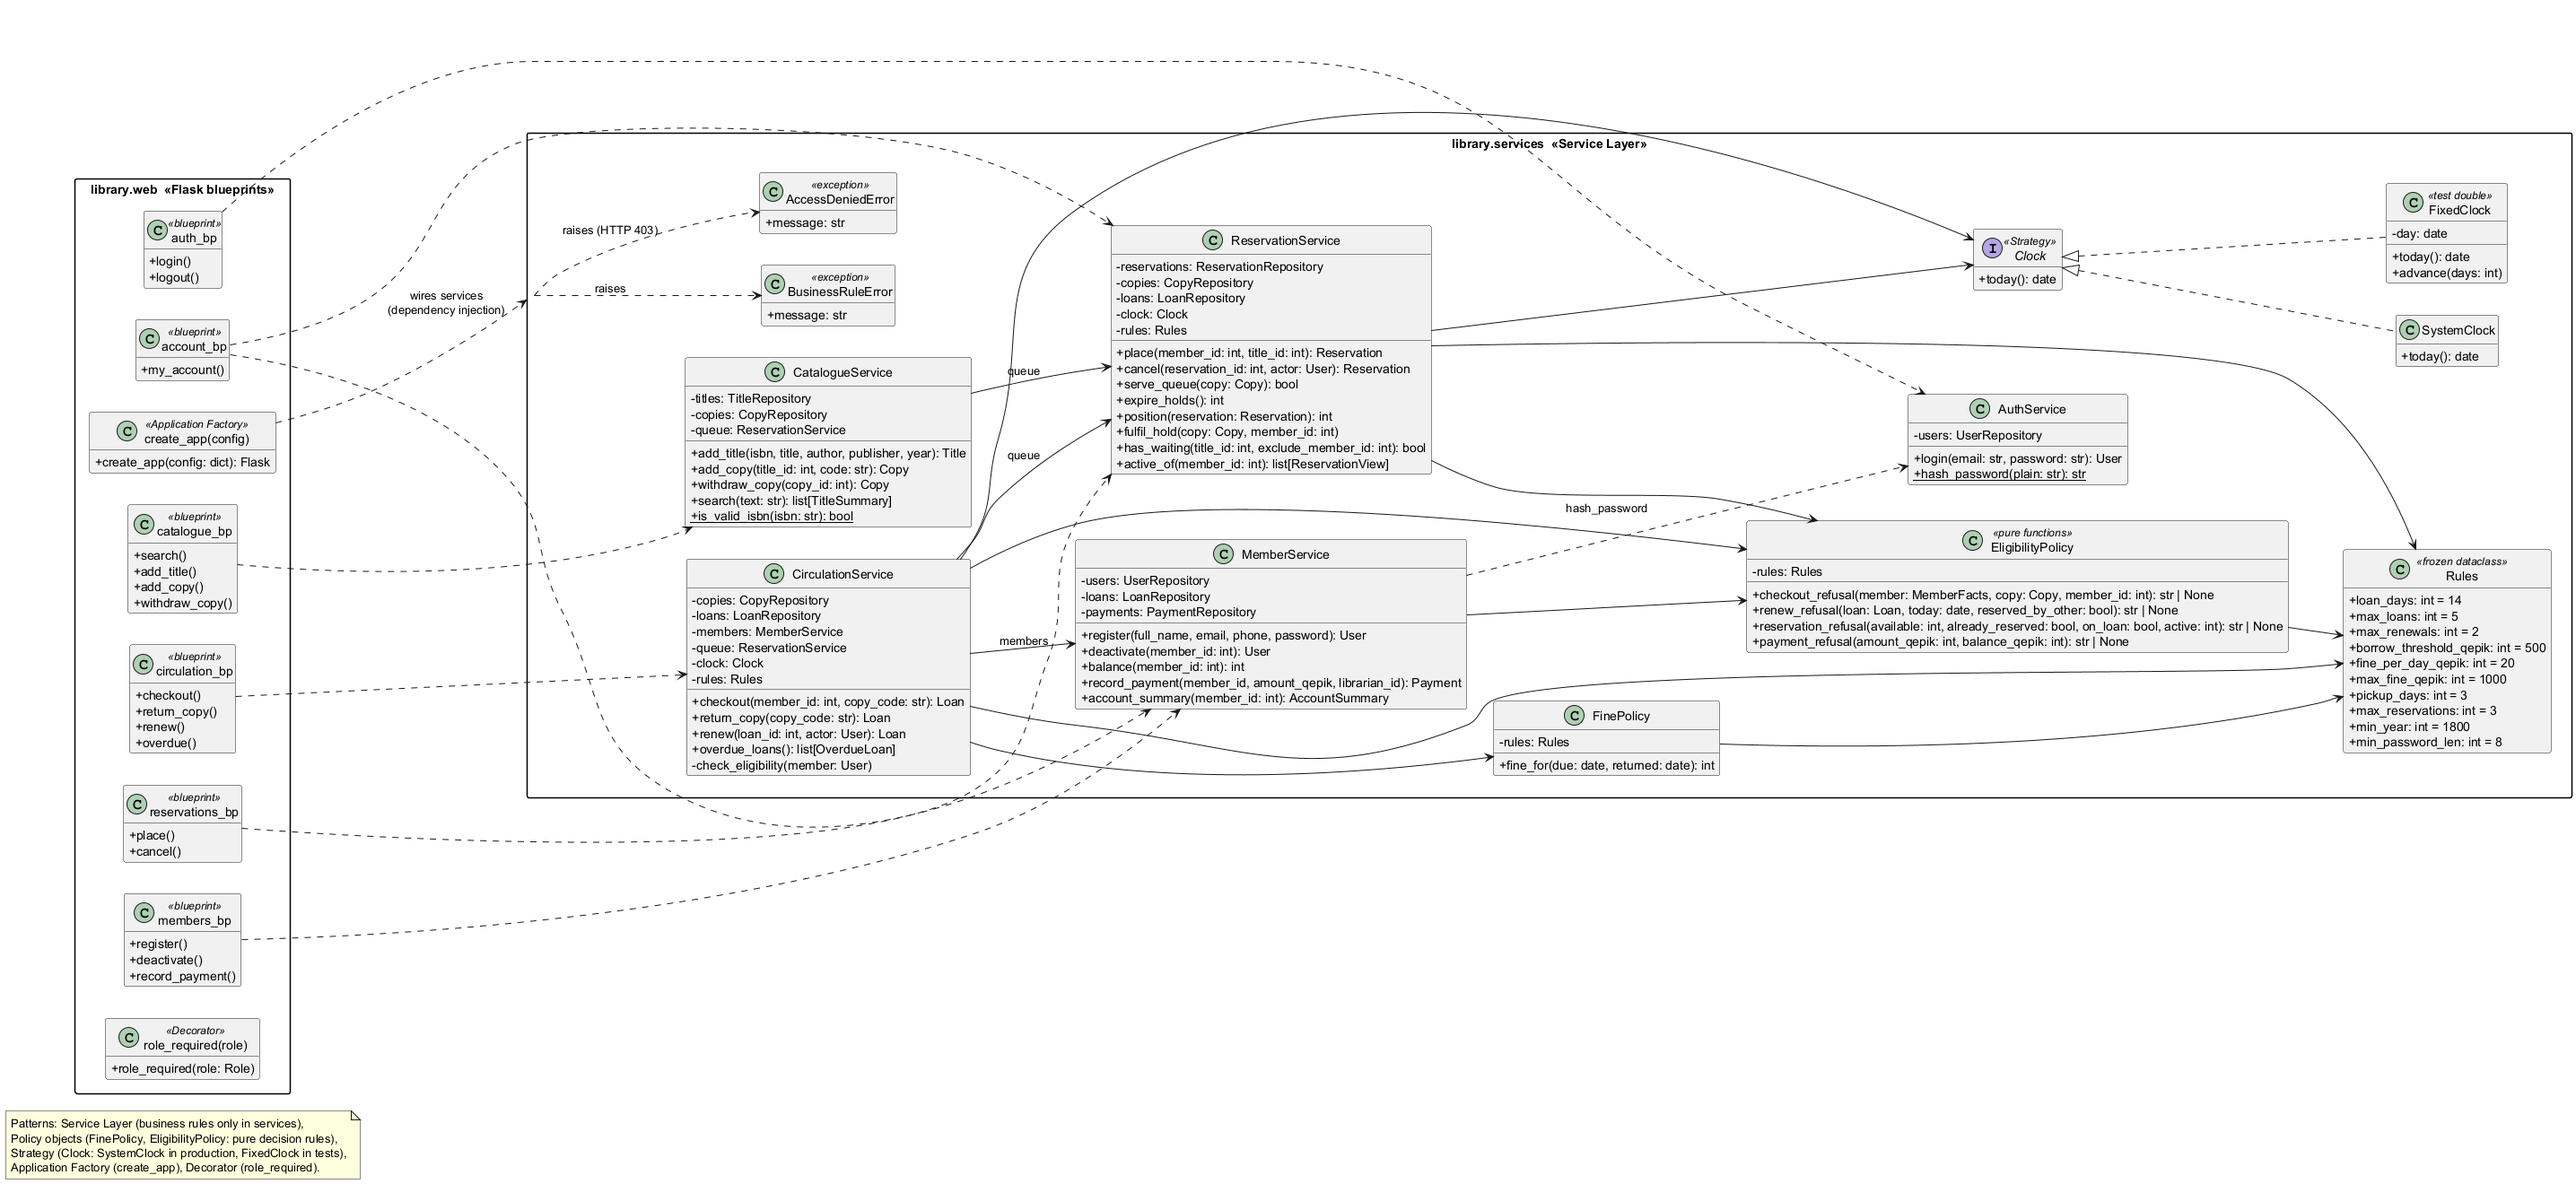
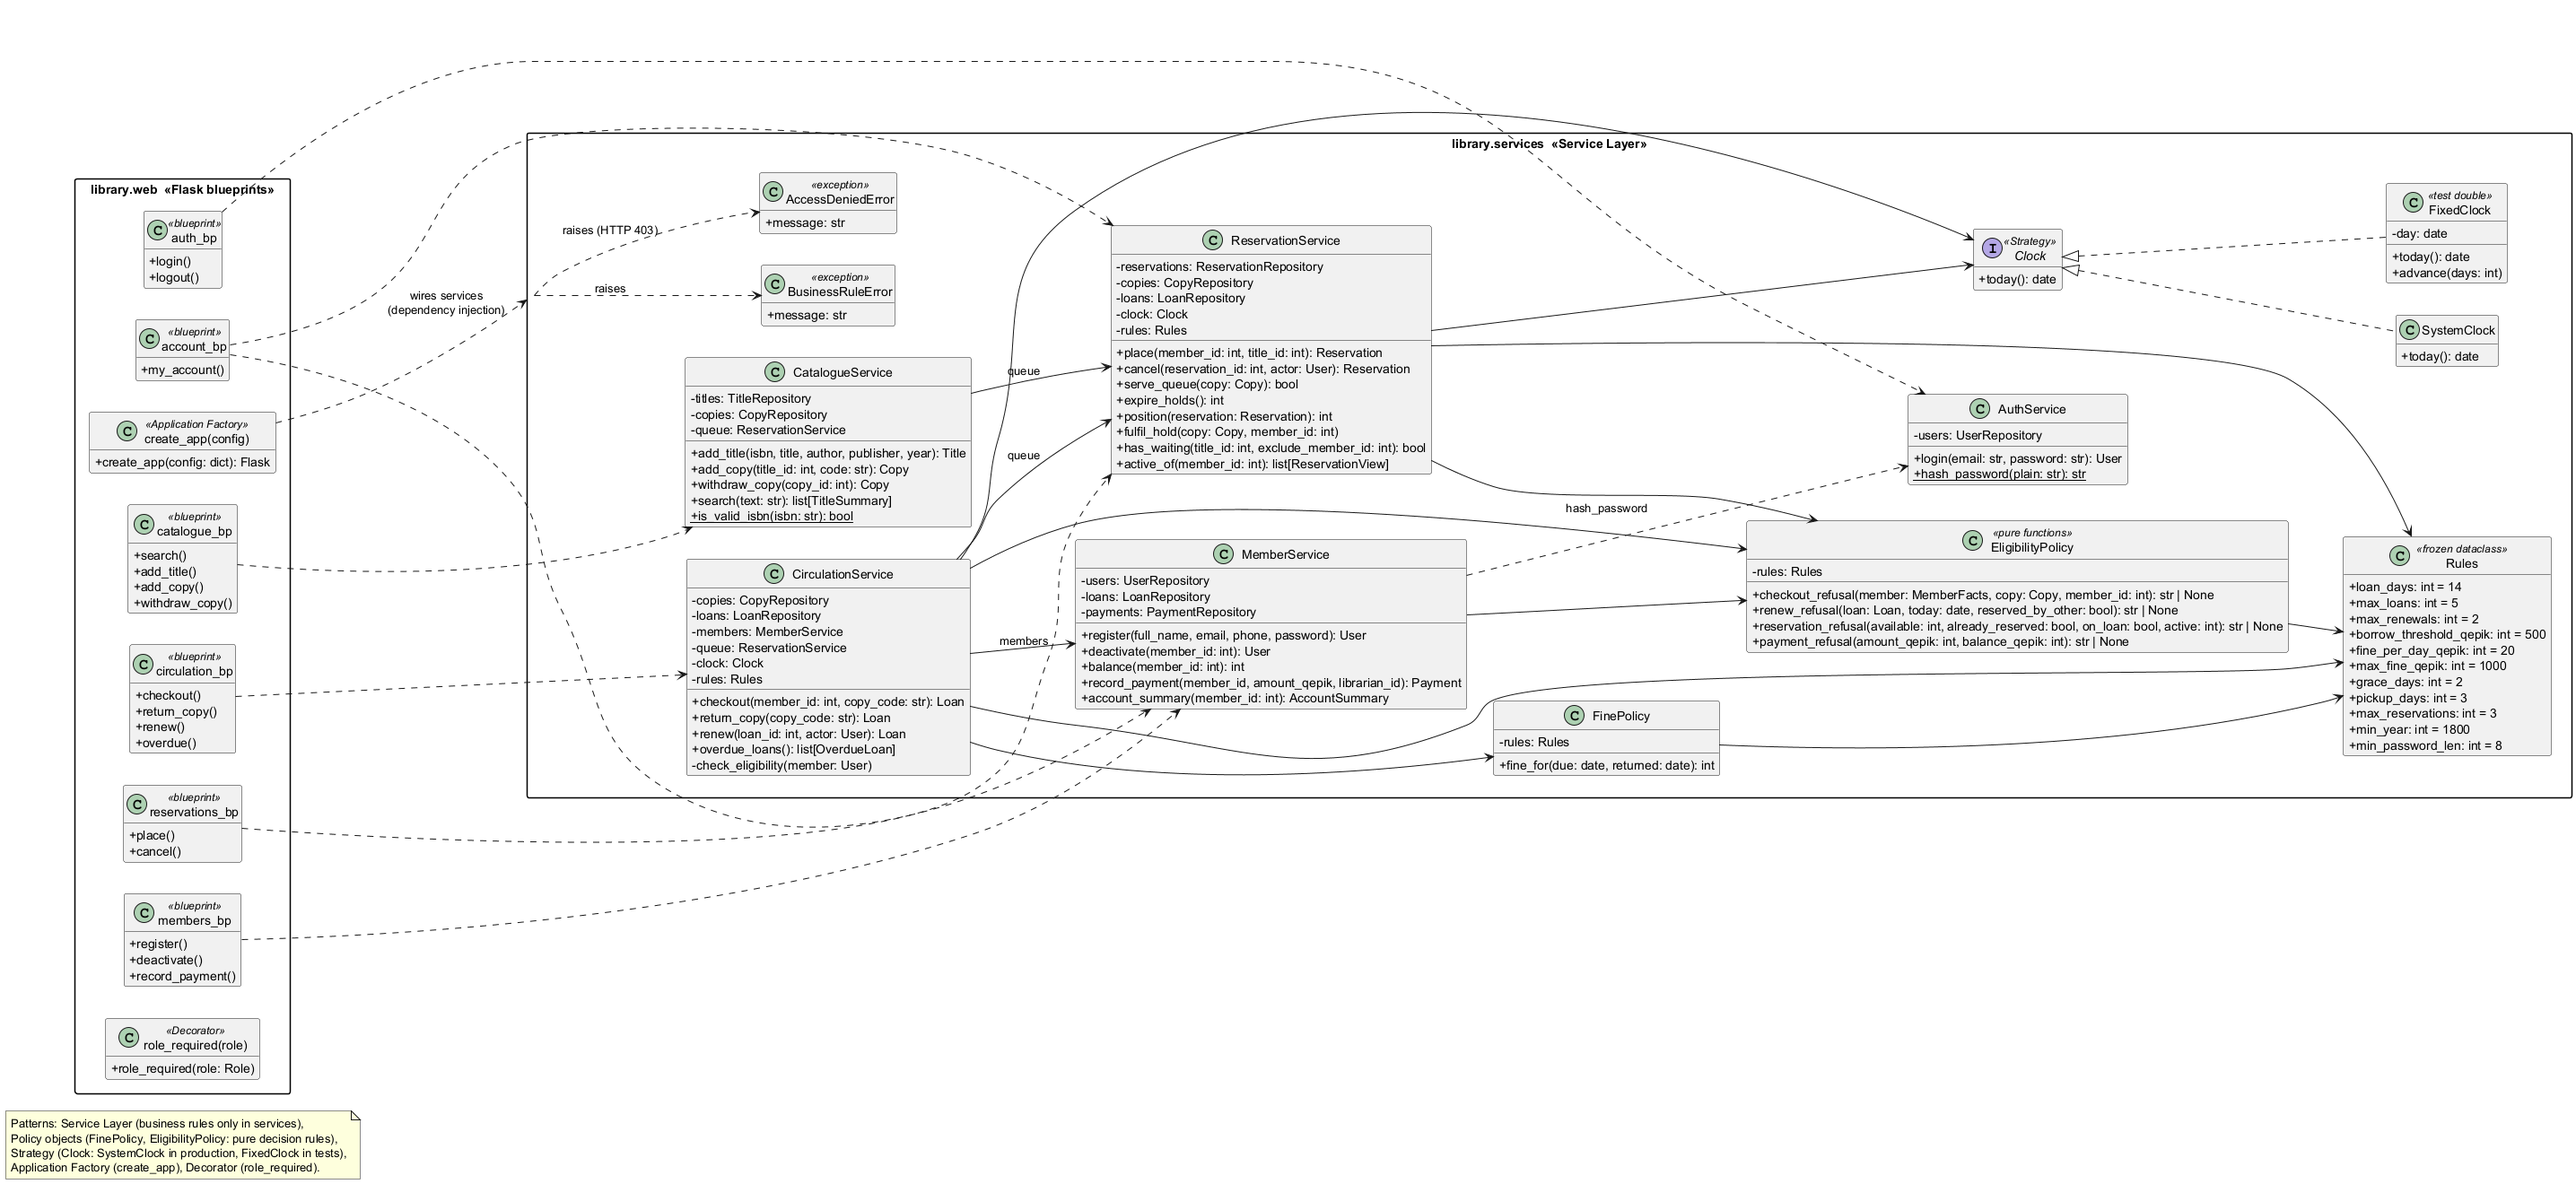
docs(cr-01): requirements v1.2 (BR-15, FR-12), models v1.2, test plan rows, defect D-08, regenerated traceability

Changed region(s): [[0.899, 0.4348, 0.992, 0.6523]]

diff --git a/docs/test-plan.md b/docs/test-plan.md
@@ -98,7 +98,7 @@ Five techniques are used. Each test case in Section 4 names the technique it com
 
 | Input (rule) | Valid partitions | Invalid partitions | Boundary values tested | Test cases |
 |---|---|---|---|---|
-| Days late at return (FR-12, BR-07) | ≤ 0 → no fine; 1–50 → 20 qəpik/day; > 50 → capped 1000 | — | −1, 0, 1, 49, 50, 51 (+365 as a far value) | TC-FINE-01…07 |
+| Days late at return (FR-12, BR-07, BR-15) | ≤ 2 → no fine (grace, CR-01); 3–50 → 20 qəpik × every day late; > 50 → capped 1000 | — | −1, 0, 1, 2, 3, 49, 50, 51 (+365 as a far value) | TC-FINE-01…09 |
 | ISBN (BR-11) | 13 digits with valid check digit, with or without hyphens | wrong check digit; 12 or 14 digits; non-digit character; empty | 12, 13, 14 digits | TC-ISBN-01…07 |
 | Publication year (BR-12) | 1800 … current year | < 1800; > current year | 1799, 1800, 2026, 2027 | TC-CAT-03…06 |
 | Active loans before checkout (BR-02) | 0–4 | ≥ 5 | 4, 5 | TC-CHK-10, TC-CHK-03 |
@@ -193,17 +193,19 @@ A 1-switch path test (TC-STC-04) runs one copy through Available → On loan →
 Levels: **U** = unit, **I** = integration, **S** = system, **M** = manual. Unless stated, today = 2026-12-01.
 The columns *Actual* and *Result* are filled in when the tests are executed (Section 5).
 
-### 4.1 Fines (FR-12, BR-07)
+### 4.1 Fines (FR-12, BR-07, BR-15)
 
 | ID | Req | Tech | Lvl | Input | Expected | Actual | Result |
 |---|---|---|---|---|---|---|---|
 | TC-FINE-01 | FR-12 | BVA | U | due 12-15, returned 12-14 (−1 day) | 0 | as expected | Pass |
 | TC-FINE-02 | FR-12 AC1 | BVA | U | due 12-15, returned 12-15 (0) | 0 | as expected | Pass |
-| TC-FINE-03 | FR-12 AC2 | BVA | U | due 12-15, returned 12-16 (1) | 20 | as expected | Pass |
+| TC-FINE-03 | FR-12 AC2 | BVA | U | due 12-15, returned 12-16 (1) | 0 (grace period, CR-01; was 20) | as expected | Pass |
 | TC-FINE-04 | FR-12 | BVA | U | 49 days late | 980 | as expected | Pass |
 | TC-FINE-05 | FR-12 AC3 | BVA | U | 50 days late | 1000 | as expected | Pass |
 | TC-FINE-06 | FR-12 AC4 | BVA | U | 51 days late | 1000 | as expected | Pass |
 | TC-FINE-07 | FR-12 AC4 | EP | U | 365 days late | 1000 | as expected | Pass |
+| TC-FINE-08 | FR-12 AC5 | BVA | U | 2 days late (last grace day, CR-01) | 0 | as expected | Pass |
+| TC-FINE-09 | FR-12 AC6 | BVA | U | 3 days late (first day after grace, CR-01) | 60 | as expected | Pass |
 
 ### 4.2 ISBN validation (FR-03 AC2, BR-11)
 
@@ -292,7 +294,7 @@ The columns *Actual* and *Result* are filled in when the tests are executed (Sec
 | TC-RET-01 | FR-10 AC1 | ST | I | loan due 12-15, returned 12-15, no reservations | loan closed, fine 0, copy Available | as expected | Pass |
 | TC-RET-02 | FR-10 AC2, FR-14 AC1 | ST | I | Waiting: Ann (first), Ben; copy returned 12-01 | copy On hold for Ann; Ann Ready, deadline 12-04; Ben Waiting, position 1 | as expected | Pass |
 | TC-RET-03 | FR-10 AC3 | ST | I | return an Available copy | "Copy is not on loan" | as expected | Pass |
-| TC-RET-04 | FR-10, FR-12 | BVA | I | loan due 11-29, returned 12-01 | fine 40 stored; Ann's balance 40 | as expected | Pass |
+| TC-RET-04 | FR-10, FR-12 | BVA | I | loan due 11-27, returned 12-01 (4 days; CR-01 changed it from 2 days) | fine 80 stored; Ann's balance 80 | as expected | Pass |
 | TC-EXP-01 | FR-15 AC1 | ST, BVA | I | Ann's hold deadline 12-18; expiry run 12-19; no other reservation | Ann Expired; copy Available | as expected | Pass |
 | TC-EXP-02 | FR-15 AC2 | ST | I | as EXP-01 plus Ben Waiting | copy On hold for Ben, deadline 12-22 | as expected | Pass |
 | TC-EXP-03 | FR-15 AC3 | BVA | I | expiry run on 12-18 (deadline day) | nothing changes | as expected | Pass |
@@ -340,7 +342,7 @@ The columns *Actual* and *Result* are filled in when the tests are executed (Sec
 
 | ID | Req | Tech | Lvl | Input | Expected | Actual | Result |
 |---|---|---|---|---|---|---|---|
-| TC-ACCT-01 | FR-17 AC1 | UC | S | Ann: 2 open loans, fines 40 | page shows both loans with due dates and "0.40 AZN" | as expected | Pass |
+| TC-ACCT-01 | FR-17 AC1 | UC | S | Ann: 2 open loans, fines 80 (CR-01) | page shows both loans with due dates and "0.80 AZN" | as expected | Pass |
 | TC-ACCT-02 | FR-17, NFR-06 | EP | S | Ann is 2nd in a queue behind Ben | page shows "position 2"; Ben's name not shown | as expected | Pass |
 | TC-PAY-01 | FR-18 AC1 | EP | U | amount 60, balance 100 | None (allowed) | as expected | Pass |
 | TC-PAY-02 | FR-18 AC2 | BVA | U | amount 0 | "Amount must be positive" | as expected | Pass |
@@ -357,7 +359,7 @@ The columns *Actual* and *Result* are filled in when the tests are executed (Sec
 |---|---|---|---|---|---|---|---|
 | TC-UC05-01 | FR-09 | UC | S | Lib posts checkout form: Ann, C-001 | page shows "due 2026-12-15" | as expected | Pass |
 | TC-UC05-02 | FR-09 AC2 | UC | S | Ann has 5 loans; Lib posts checkout | page shows "Loan limit reached (5)"; no new loan | as expected | Pass |
-| TC-UC06-01 | FR-10, FR-12 | UC | S | Lib returns C-001, 2 days late | page shows fine "0.40 AZN" | as expected | Pass |
+| TC-UC06-01 | FR-10, FR-12 | UC | S | Lib returns C-001, 4 days late (CR-01) | page shows fine "0.80 AZN" | as expected | Pass |
 | TC-UC06-02 | FR-10 AC2 | UC | S | Ben waiting; Lib returns C-001 | page says copy is on hold for the next member | as expected | Pass |
 | TC-UC07-01 | FR-11 | UC | S | Ann clicks Renew on own loan | page shows new due date | as expected | Pass |
 | TC-UC07-02 | FR-02 AC3 | UC | S | Ann posts renew for Ben's loan id | HTTP 403 | as expected | Pass |
@@ -381,7 +383,7 @@ The columns *Actual* and *Result* are filled in when the tests are executed (Sec
 
 | Area | Unit | Integration | System | Manual / other | Total |
 |---|---|---|---|---|---|
-| Fines, ISBN | 14 | — | — | — | 14 |
+| Fines, ISBN | 16 | — | — | — | 16 |
 | Catalogue, search | — | 18 | 1 | — | 19 |
 | Accounts, access, members | — | 8 | 9 | — | 17 |
 | Checkout | 12 | 5 | — | — | 17 |
@@ -391,7 +393,7 @@ The columns *Actual* and *Result* are filled in when the tests are executed (Sec
 | Account, payments, overdue | 5 | 3 | 2 | — | 10 |
 | Use-case-based | — | — | 8 | — | 8 |
 | Non-functional | — | 4 | 1 | 3 | 8 |
-| **Total** | **43** | **60** | **21** | **3** | **127** |
+| **Total** | **45** | **60** | **21** | **3** | **129** |
 
 Techniques used: EP, BVA, DT, ST and UC (five; the course requires at least three).
 
@@ -404,9 +406,9 @@ Techniques used: EP, BVA, DT, ST and UC (five; the course requires at least thre
 | Date of the final run | 2026-11-25 (and on every push in GitHub Actions) |
 | Command | `python run_tests.py` (results copied into section 4 by `python scripts/trace.py`) |
 | Environment | Windows 11 + Python 3.12.10 locally; Ubuntu + Python 3.12 in CI |
-| Test cases in the plan | 127 |
-| Automated test cases | 124 (all pass) |
-| Executed test functions / parameter sets | 153 (all pass), of which 29 are technical tests without a test case ID (listed in `docs/traceability.md` §3) |
+| Test cases in the plan | 129 (127 + TC-FINE-08/09 added by CR-01) |
+| Automated test cases | 126 (all pass) |
+| Executed test functions / parameter sets | 155 (all pass), of which 29 are technical tests without a test case ID (listed in `docs/traceability.md` §3) |
 | Measured, not a test function | TC-NFR-07 (coverage), TC-NFR-08 (install and run time) — both pass |
 | Not run | TC-NFR-05 (manual usability walkthrough) — planned before submission |
 | Duration of the whole suite | 4–10 s locally, < 20 s in CI (NFR-08 limit: 30 s) |
@@ -461,6 +463,7 @@ the build. Severity levels: section 2.7.
 | D-05 | 2026-11-25 | Code review of the commit list | Generated folder `src/library_ms.egg-info` was committed by `git add -A`. | Low | Removed from the repository and added to `.gitignore`. | `3060217` |
 | D-06 | 2026-11-25 | Timing of the test run | The suite took 17 s because every test member got a full-cost scrypt password hash; risk for NFR-08 (≤ 30 s) as the suite grows. | Medium | Tests use a cheaper PBKDF2 setting through a fixture; production keeps scrypt (checked by TC-NFR-02). | `0a513c9` |
 | D-07 | 2026-11-25 | First run of the system tests | `tests/system/conftest.py` imported itself (`from conftest import …`), so no system test could start. | Low | Shared test data moved to `tests/helpers.py`. | `2cf9c06` |
+| D-08 | 2026-11-25 | Impact analysis of CR-01 (prediction vs. actual run) | The system test for recording a payment passed for the wrong reason: it only checked that the page shows "0.00 AZN", which is also true when the payment is refused. | Medium | The test now checks the success message "Payment recorded. New balance 0.00 AZN". | see CR-01 commits |
 
 No defect is open.
 

diff --git a/docs/traceability.md b/docs/traceability.md
@@ -19,7 +19,7 @@ Legend: SD = sequence diagram, SM = state machine, DT = decision table (models /
 | FR-09 | Check out a copy | M | UC-05 | SD-01, Copy SM, DT-1; CirculationService.checkout, EligibilityPolicy.checkout_refusal | `services/circulation.py, services/policies.py` | TC-CHK-01, TC-CHK-02, TC-CHK-03, TC-CHK-04, TC-CHK-05, TC-CHK-06, TC-CHK-07, TC-CHK-08, TC-CHK-09, TC-CHK-10, TC-CHK-11, TC-CHK-12, TC-CHK-13, TC-CHK-14, TC-CHK-15, TC-CHK-16, TC-CHK-17, TC-STC-04, TC-UC05-01, TC-UC05-02 | 20 | traced, passing |
 | FR-10 | Return a copy | M | UC-06 | SD-02, Copy SM; CirculationService.return_copy | `services/circulation.py` | TC-RET-01, TC-RET-02, TC-RET-03, TC-RET-04, TC-STC-02, TC-STC-03, TC-STC-04, TC-UC06-01, TC-UC06-02 | 9 | traced, passing |
 | FR-11 | Renew a loan | M | UC-07 | SD-03, DT-2; CirculationService.renew, EligibilityPolicy.renew_refusal | `services/circulation.py, services/policies.py` | TC-REN-01, TC-REN-02, TC-REN-03, TC-REN-04, TC-REN-05, TC-REN-06, TC-REN-07, TC-REN-09, TC-UC07-01 | 9 | traced, passing |
-| FR-12 | Calculate overdue fines | M | UC-13 | SD-02; FinePolicy.fine_for | `services/policies.py` | TC-FINE-01, TC-FINE-02, TC-FINE-03, TC-FINE-04, TC-FINE-05, TC-FINE-06, TC-FINE-07, TC-RET-04, TC-UC06-01 | 9 | traced, passing |
+| FR-12 | Calculate overdue fines | M | UC-13 | SD-02; FinePolicy.fine_for | `services/policies.py` | TC-FINE-01, TC-FINE-02, TC-FINE-03, TC-FINE-04, TC-FINE-05, TC-FINE-06, TC-FINE-07, TC-FINE-08, TC-FINE-09, TC-RET-04, TC-UC06-01 | 11 | traced, passing |
 | FR-13 | Place a reservation | M | UC-08 | SD-04, Reservation SM, DT-3; ReservationService.place, EligibilityPolicy.reservation_refusal | `services/reservations.py, services/policies.py` | TC-RES-01, TC-RES-02, TC-RES-03, TC-RES-04, TC-RES-05, TC-RES-06, TC-RES-07, TC-RES-08, TC-UC08-01, TC-UC08-02 | 10 | traced, passing |
 | FR-14 | Serve the reservation queue | M | UC-15 | SD-02, SD-06, Reservation SM; ReservationService.serve_queue | `services/reservations.py` | TC-CHK-14, TC-RES-07, TC-RET-02, TC-STC-04 | 4 | traced, passing |
 | FR-15 | Expire uncollected holds | M | UC-14 | SD-01..SD-04, Reservation SM; ReservationService.expire_holds | `services/reservations.py` | TC-EXP-01, TC-EXP-02, TC-EXP-03, TC-EXP-04, TC-STC-04 | 5 | traced, passing |
@@ -42,8 +42,8 @@ Legend: SD = sequence diagram, SM = state machine, DT = decision table (models /
 
 - Must requirements: 19; fully traced (use case, design, code and at least one passing test): 19.
 - Requirements without a test case: FR-20, FR-21.
-- Test cases in the plan: 127; automated: 124; manual or measured: TC-NFR-05, TC-NFR-07, TC-NFR-08.
-- Executed test functions/parameter sets: 153; passed: 153.
+- Test cases in the plan: 129; automated: 126; manual or measured: TC-NFR-05, TC-NFR-07, TC-NFR-08.
+- Executed test functions/parameter sets: 155; passed: 155.
 
 ## 3. Automated tests without a test case ID
 

diff --git a/docs/requirements.md b/docs/requirements.md
@@ -3,7 +3,7 @@
 | | |
 |---|---|
 | **Author** | Ramil İmanov (group M666İ5) |
-| **Version** | 1.1 |
+| **Version** | 1.2 |
 | **Date** | 2026-11-15 |
 | **Status** | Baseline for design |
 
@@ -13,6 +13,7 @@
 |---|---|---|---|
 | 1.0 | 2026-11-15 | First baseline. | — |
 | 1.1 | 2026-11-15 | FR-04: a new copy of a title with Waiting reservations goes On hold for the first reservation (AC3 added). | Gap found while drawing the Copy state machine: a new copy would have become Available while members were waiting, which breaks the queue rule of FR-14. |
+| 1.2 | 2026-11-25 | CR-01: new BR-15 grace period (2 days); FR-12 text and AC2 changed, AC5/AC6 added. | Change request from the library manager, see `docs/change-request.md`. |
 
 ## 1. Introduction
 
@@ -175,11 +176,14 @@ has a waiting reservation for the same title (BR-04).
 - AC3: Given an overdue loan, when renewing, then the system refuses with "Overdue loans cannot be renewed".
 - AC4: Given a waiting reservation by another member for the same title, when renewing, then the system refuses with "Title is reserved by another member".
 
-**FR-12 — Calculate overdue fines (M).** When a copy is returned after its due date, the system shall charge
-a fine of BR-07 per calendar day late, capped per loan at the BR-07 maximum. Days late = return date − due
-date. Fines are calculated exactly in qəpik (no floating-point rounding).
+**FR-12 — Calculate overdue fines (M).** When a copy is returned more than the grace period (BR-15) after its
+due date, the system shall charge a fine of BR-07 for **every** calendar day late, capped per loan at the BR-07
+maximum. A return within the grace period is free of charge. Days late = return date − due date. Fines are
+calculated exactly in qəpik (no floating-point rounding). *(Changed by CR-01 in v1.2.)*
 - AC1: Returned on the due date → fine 0.00 AZN.
-- AC2: Returned 1 day late → fine 0.20 AZN.
+- AC2: Returned 1 day late → fine 0.00 AZN (grace period).
+- AC5: Returned 2 days late → fine 0.00 AZN (last day of the grace period).
+- AC6: Returned 3 days late → fine 0.60 AZN (every day counts).
 - AC3: Returned 50 days late → fine 10.00 AZN (exactly the cap).
 - AC4: Returned 51 days or more late → fine 10.00 AZN (capped).
 
@@ -281,6 +285,7 @@ configuration module in the code so that the library manager can change them wit
 | BR-12 | Allowed publication year **of this edition** (not of the original work) | 1800 to the current year |
 | BR-13 | Minimum password length | 8 characters |
 | BR-14 | Money is stored and calculated as whole qəpik (integers) and shown as AZN with 2 decimals | — |
+| BR-15 | Grace period: no fine if the copy is returned at most this many days after the due date; after it, every day late is charged (BR-07). The loan is still overdue from the first day (BR-06). | 2 calendar days |
 
 ## 8. Assumptions
 

diff --git a/docs/models.md b/docs/models.md
@@ -3,7 +3,7 @@
 | | |
 |---|---|
 | **Author** | Ramil İmanov (group M666İ5) |
-| **Version** | 1.1 |
+| **Version** | 1.2 |
 | **Date** | 2026-11-15 |
 | **Based on** | Requirements Specification v1.1 |
 
@@ -13,6 +13,7 @@
 |---|---|---|
 | 1.0 | First version. | — |
 | 1.1 | Added `EligibilityPolicy` (pure functions `checkout_refusal`, `renew_refusal`, `reservation_refusal`, `payment_refusal`); SD-01, SD-03, SD-04 and SD-07 now call it. | Found while writing the test plan: the decision-table rules were hidden inside services that need a database, so they could only be tested at integration level. As pure functions they can be unit-tested exhaustively. |
+| 1.2 | CR-01: `Rules.grace_days = 2` in the design class diagram; fine formula in SD-02 updated. No other model is affected (impact analysis in `docs/change-request.md`). | Change request CR-01. |
 
 All diagrams are written in PlantUML. The source files are in `docs/models/*.puml` and the exported images
 in `docs/models/img/`. To regenerate the images: `java -jar plantuml.jar -tpng -o img docs/models/*.puml`.
